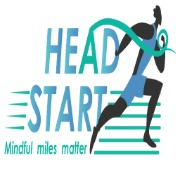
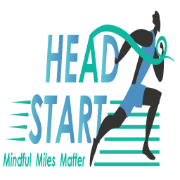
content update

diff --git a/public/index.html b/public/index.html
@@ -6,23 +6,23 @@
     <meta name="viewport" content="width=device-width, initial-scale=1" />
     <meta name="theme-color" content="#000000" />
 
-    <meta name="description" content="--- DESCRIPTION ---" />
+    <meta name="description" content="Run with us on 5th February to spread awareness and reduce the stigma around mental illness!" />
     <meta property="og:site_name" content="Headstart"/>
     <meta property="og:title" content="Headstart"/>
     <meta property="og:url" content="https://headstart.excelmec.org/"/>
     <meta property="og:type" content="website"/>
-    <meta property="og:description" content="--- DESCRIPTION ---"/>
+    <meta property="og:description" content="Run with us on 5th February to spread awareness and reduce the stigma around mental illness!"/>
     
     <meta itemprop="name" content="Headstart"/>
     <meta itemprop="url" content="https://headstart.excelmec.org/"/>
-    <meta itemprop="description" content="--- DESCRIPTION ---"/>
+    <meta itemprop="description" content="Run with us on 5th February to spread awareness and reduce the stigma around mental illness!"/>
     <meta itemprop="thumbnailUrl" content=""/>
     
     <meta name="twitter:site" content="@excelmec">
     <meta name="twitter:creator" content="@excelmec">
     <meta name="twitter:url" content="https://headstart.excelmec.org/"/>
     <meta name="twitter:title" content="Headstart">
-    <meta name="twitter:description" content="--- DESCRIPTION ---">
+    <meta name="twitter:description" content="Run with us on 5th February to spread awareness and reduce the stigma around mental illness!">
     <meta name="twitter:card" content="summary"/>
 
     <link rel="apple-touch-icon" href="%PUBLIC_URL%/logo192.png" />

diff --git a/src/components/Excel/Excel.js b/src/components/Excel/Excel.js
@@ -7,14 +7,14 @@ import mobileImg from '../../assets/png/mobileimg.png'
 
 function Excel() {
   return (
-    <div className='excel' id="coordinators">
+    <div className='excel' id="organizers">
       <div className='excel_container'>
         <div className='excel_left'>
             <div className='excel_left_title'>
               <h4 className='excel_title'>FORTITUDE</h4>
               <div className='excel_line'></div>
             </div>
-            <p className='excel_desc'>Lorem ipsum dolor sit amet consectetur. Lacus nisl praesent dapibus varius. Vivamus odio feugiat adipiscing scelerisque sed elit in. Commodo egestas dapibus viverra dignissim gravida eget sed ac id. Vivamus odio feugiat adipiscing scelerisque sed elit in. Lorem ipsum dolor sit amet</p>
+            <p className='excel_desc'>Fortitude is the mental health club of Model Engineering College. The club aims to spark and engage conversations around mental health in the campus. <br />Established in late 2020, Fortitude has since then conducted several activities to address mental health issues among students and to provide avenues for them to seek professional help.</p>
           </div>
           <div className='excel_right'>
             <div className='excel_right_title'>

diff --git a/src/components/Home/Home.js b/src/components/Home/Home.js
@@ -4,10 +4,11 @@ import { HiChevronDoubleRight } from "react-icons/hi";
 import './Home.css'
 
 import chart from '../../assets/png/chart.png'
-import landing_avatar from '../../assets/svg/landing_avatar.svg'
+import landing_avatar from '../../assets/svg/landing_avatar.svg'  
+
 
 const calculateTimeLeft = () => {
-  let difference = +new Date("2023-02-04T10:00:00+05:30") - +new Date(); // MM/DD/YYYY
+  let difference = +new Date("2023-02-05T10:00:00+05:30") - +new Date(); // MM/DD/YYYY
   let timeLeft = {};
 
   if (difference > 0) {
@@ -64,8 +65,8 @@ function Home() {
             </div>
           </div>
         <div className='home__left'>
-          <h1>mindful minds <br /><span>matter</span></h1>
-          <p>Lorem ipsum dolor sit amet consectetur. Sit ultricies tellus ornare dolor. Et dictumst in faucibus tristique tincidunt.</p>
+          <h1>mindful miles <br /><span>matter</span></h1>
+          <p>Run with us on 5th February to spread awareness and reduce the stigma around mental illness!</p>
           <button className='home_reg_btn'>
             Register Now
             <HiChevronDoubleRight />

diff --git a/src/components/Navbar/Navbar.js b/src/components/Navbar/Navbar.js
@@ -55,8 +55,8 @@ function Navbar() {
           <NavLink to="/#schedule" className="nav__link" activeStyle={activeStyle}>
             Schedule
           </NavLink>
-          <NavLink to="/#coordinators" className="nav__link" activeStyle={activeStyle}>
-            Excel
+          <NavLink to="/#organizers" className="nav__link" activeStyle={activeStyle}>
+            Organizers
           </NavLink>
           <NavLink to="/#contact" className="nav__link" activeClassName="nav__link_active">
             Contact
@@ -98,8 +98,8 @@ function Navbar() {
             <NavLink to="/#schedule" className="navmob__link" onClick={handleDrawerClose}>
               Schedule
             </NavLink>
-            <NavLink to="/#coordinators" className="navmob__link" onClick={handleDrawerClose}>
-              Coordinators
+            <NavLink to="/#organizers" className="navmob__link" onClick={handleDrawerClose}>
+              Organizers
             </NavLink>
             <NavLink to="/#contact" className="navmob__link" onClick={handleDrawerClose}>
               Contact

diff --git a/src/pages/SuccessPage/SuccessPage.js b/src/pages/SuccessPage/SuccessPage.js
@@ -1,0 +1,32 @@
+import React from 'react'
+import Lottie from 'react-lottie';
+
+import success from '../../assets/json/success.json'
+import './SuccessPage.css'
+
+function SuccessPage() {
+
+  const defaultOptions = {
+    loop: true,
+    autoplay: true,
+    animationData: success,
+    rendererSettings: {
+      preserveAspectRatio: "xMidYMid slice"
+    }
+  };
+
+  return (
+    <div className='successPage'>
+      <Lottie
+        options={defaultOptions}
+        height={300}
+        width={300}
+      />
+      <div className='successPage__header'>
+          <h1>Thank you for registering</h1>
+      </div>
+    </div>
+  )
+}
+
+export default SuccessPage

diff --git a/src/App.js b/src/App.js
@@ -4,7 +4,7 @@ import AOS from 'aos';
 
 import ScrollToTop from "./utils/ScrollToTop"
 import { Navbar, Footer, Loader } from "./components";
-import { LandingPage } from './pages'
+import { LandingPage, SuccessPage } from './pages'
 
 import './App.css';
 
@@ -24,6 +24,7 @@ function App() {
           <Navbar />
           <Routes>
             <Route path="/" element={<LandingPage />} />
+            <Route path="/success" element={<SuccessPage />} />
             <Route path="*" element={<Navigate replace to="/" />} />
           </Routes>
           <Footer />

diff --git a/src/components/About/About.css b/src/components/About/About.css
@@ -33,7 +33,7 @@
     width: 50px;
     height: 245px;
     background: #FBD22D;
-    transform: translate(0, -50%) rotate(60deg);
+    transform: translate(-75px, 0%) rotate(0deg);
 }
 
 .map_event p {
@@ -182,6 +182,7 @@
 
     .about_map_div img {
         width: 400px;
+        margin-top: 3rem;
     }
     .about__right {
         flex: 1;
@@ -234,6 +235,9 @@
     }
     .about__right {
         flex: 1;
+    }
+    .ar__content h1 {
+        font-size: 1.5rem;
     }
     .ar__content p {
         font-size: 0.9rem;

diff --git a/src/pages/SuccessPage/SuccessPage.css b/src/pages/SuccessPage/SuccessPage.css
@@ -1,0 +1,23 @@
+.successPage {
+    min-height: 100vh;
+    background-color: var(--primary-color);
+    color: #F9CE2D;
+    display: flex;
+    flex-direction: column;
+    align-items: center;
+    justify-content: center;
+    gap: 2rem;
+    font-family: var(--primary-font);
+}
+
+.successPage__header {
+    display: flex;
+    align-items: center;
+    justify-content: center;
+}
+
+.successPage__header h1 {
+    font-size: 1.5rem;
+    margin-top: 1rem;
+}
+

diff --git a/src/components/Footer/Footer.js b/src/components/Footer/Footer.js
@@ -51,8 +51,8 @@ const Footer = () => {
           <NavLink to='/#schedule' className="footer_link">
             Schedule
           </NavLink>
-          <NavLink to='/#excel' className="footer_link">
-            Excel
+          <NavLink to='/#organizers' className="footer_link">
+            Organizers
           </NavLink>
           
           <NavLink to='/#contact' className="footer_link">

diff --git a/src/components/Navbar/Navbar.css b/src/components/Navbar/Navbar.css
@@ -142,10 +142,10 @@ a {
   
     .navmob__link {
         gap: 2.5rem;
-        font-family: var(--primary-font);
+        font-family: var(--secondary-font);
         font-style: normal;
         align-items: center;
-        color: var(--bg-color);
+        color: #ECF5F8;
         font-size: 1.2rem;
         cursor: pointer;
         text-transform: uppercase;

diff --git a/src/data/contactsData.js b/src/data/contactsData.js
@@ -4,7 +4,7 @@ import nasreen from "../assets/images/nasreen.jpeg";
 import sania from "../assets/images/sania.png";
 import cijo from "../assets/images/cijo.jpeg";
 import sanchez from "../assets/images/sanchez.jpeg";
-import pranav from "../assets/images/pranav.jpg";
+import pranav from "../assets/images/pranav.jpeg";
 
 export const contactsData = [
     {

diff --git a/src/pages/index.js b/src/pages/index.js
@@ -1,7 +1,9 @@
 import { lazy } from 'react'
 
 const LandingPage = lazy(() => import('./LandingPage/LandingPage'));
+const SuccessPage = lazy(() => import('./SuccessPage/SuccessPage'));
 
 export { 
     LandingPage,
+    SuccessPage
 }
